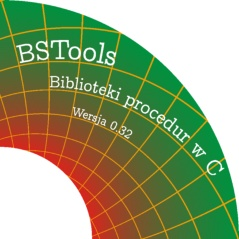
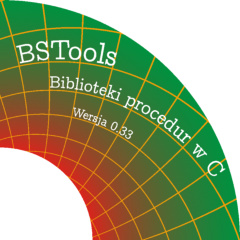
version 0.33
git-svn-id: https://femdk.l5.pk.edu.pl/bstools/BSTools/trunk@41 4ce36bd9-3a78-4973-a166-986cbda2e52d

diff --git a/src/xgedit/xglet2knotwind.c b/src/xgedit/xglet2knotwind.c
@@ -3,7 +3,7 @@
 /* This file is a part of the BSTools package                                */
 /* written by Przemyslaw Kiciak                                              */
 /* ///////////////////////////////////////////////////////////////////////// */
-/* (C) Copyright by Przemyslaw Kiciak, 2007, 2010                            */
+/* (C) Copyright by Przemyslaw Kiciak, 2007, 2013                            */
 /* this package is distributed under the terms of the                        */
 /* Lesser GNU Public License, see the file COPYING.LIB                       */
 /* ///////////////////////////////////////////////////////////////////////// */
@@ -31,7 +31,7 @@
 #include "xgeprivate.h"
 
 
-void xge_T2KnotWindDrawCursorPos ( xge_T2KnotWind *T2win, short x, short y )
+void xgle_T2KnotWindDrawCursorPos ( xge_T2KnotWind *T2win, short x, short y )
 {
   xge_widget *er;
   char       s[10];
@@ -55,5 +55,5 @@ void xge_T2KnotWindDrawCursorPos ( xge_T2KnotWind *T2win, short x, short y )
     y = (short)(max ( y, er->y+10 ));
     xgleDrawString ( s, er->x, y );
   }
-} /*xge_T2KnotWindDrawCursorPos*/
+} /*xgle_T2KnotWindDrawCursorPos*/
 

diff --git a/src/xgedit/xglet2knotwinf.c b/src/xgedit/xglet2knotwinf.c
@@ -3,7 +3,7 @@
 /* This file is a part of the BSTools package                                */
 /* written by Przemyslaw Kiciak                                              */
 /* ///////////////////////////////////////////////////////////////////////// */
-/* (C) Copyright by Przemyslaw Kiciak, 2007, 2010                            */
+/* (C) Copyright by Przemyslaw Kiciak, 2007, 2013                            */
 /* this package is distributed under the terms of the                        */
 /* Lesser GNU Public License, see the file COPYING.LIB                       */
 /* ///////////////////////////////////////////////////////////////////////// */
@@ -31,7 +31,7 @@
 #include "xgeprivate.h"
 
 
-void xge_T2KnotWinfDrawCursorPos ( xge_T2KnotWinf *T2win, short x, short y )
+void xgle_T2KnotWinfDrawCursorPos ( xge_T2KnotWinf *T2win, short x, short y )
 {
   xge_widget *er;
   char       s[10];
@@ -55,5 +55,5 @@ void xge_T2KnotWinfDrawCursorPos ( xge_T2KnotWinf *T2win, short x, short y )
     y = (short)(max ( y, er->y+10 ));
     xgleDrawString ( s, er->x, y );
   }
-} /*xge_T2KnotWinfDrawCursorPos*/
+} /*xgle_T2KnotWinfDrawCursorPos*/
 

diff --git a/include/bookg1holed.h b/include/bookg1holed.h
@@ -3,7 +3,7 @@
 /* This file is a part of the BSTools package                                */
 /* written by Przemyslaw Kiciak                                              */
 /* ///////////////////////////////////////////////////////////////////////// */
-/* (C) Copyright by Przemyslaw Kiciak, 2005                                  */
+/* (C) Copyright by Przemyslaw Kiciak, 2005, 2013                            */
 /* this package is distributed under the terms of the                        */
 /* Lesser GNU Public License, see the file COPYING.LIB                       */
 /* ///////////////////////////////////////////////////////////////////////// */
@@ -12,12 +12,15 @@
 /* Bezier patches filling a polygonal hole in a surface made of      */
 /* bicubic Bezier patches                                            */
 
+#ifndef G1HOLED_H
+#define G1HOLED_H
+
 #ifndef CONST_  /* a dirty trick to suppress many compiler warning messages */
 #define CONST_ const
 #endif
 
-#ifndef G1HOLED_H
-#define G1HOLED_H
+#include "pkvaria.h"
+#include "pkgeom.h"
 
 #ifdef __cplusplus   
 extern "C" {

diff --git a/include/bookg1holef.h b/include/bookg1holef.h
@@ -3,7 +3,7 @@
 /* This file is a part of the BSTools package                                */
 /* written by Przemyslaw Kiciak                                              */
 /* ///////////////////////////////////////////////////////////////////////// */
-/* (C) Copyright by Przemyslaw Kiciak, 2005                                  */
+/* (C) Copyright by Przemyslaw Kiciak, 2005, 2013                            */
 /* this package is distributed under the terms of the                        */
 /* Lesser GNU Public License, see the file COPYING.LIB                       */
 /* ///////////////////////////////////////////////////////////////////////// */
@@ -12,12 +12,15 @@
 /* Bezier patches filling a polygonal hole in a surface made of      */
 /* bicubic Bezier patches                                            */
 
+#ifndef G1HOLEF_H
+#define G1HOLEF_H
+
 #ifndef CONST_  /* a dirty trick to suppress many compiler warning messages */
 #define CONST_ const
 #endif
 
-#ifndef G1HOLEF_H
-#define G1HOLEF_H
+#include "pkvaria.h"
+#include "pkgeom.h"
 
 #ifdef __cplusplus   
 extern "C" {

diff --git a/src/g2blending/g2mblmlsopt07d.c b/src/g2blending/g2mblmlsopt07d.c
@@ -3,7 +3,7 @@
 /* This file is a part of the BSTools package                                */
 /* written by Przemyslaw Kiciak                                              */
 /* ///////////////////////////////////////////////////////////////////////// */
-/* (C) Copyright by Przemyslaw Kiciak, 2011, 2013                            */
+/* (C) Copyright by Przemyslaw Kiciak, 2011, 2012                            */
 /* this package is distributed under the terms of the                        */
 /* Lesser GNU Public License, see the file COPYING.LIB                       */
 /* ///////////////////////////////////////////////////////////////////////// */
@@ -29,6 +29,7 @@
 #include "g2blprivated.h"
 #include "g2mblprivated.h"
 #include "g2mblmlprivated.h"
+#include "msgpool.h"
 
 /* ///////////////////////////////////////////////////////////////////////// */
 #ifdef _DEBUG

diff --git a/src/multibs/mbs61d.c b/src/multibs/mbs61d.c
@@ -3,7 +3,7 @@
 /* This file is a part of the BSTools package                                */
 /* written by Przemyslaw Kiciak                                              */
 /* ///////////////////////////////////////////////////////////////////////// */
-/* (C) Copyright by Przemyslaw Kiciak, 2010, 2013                            */
+/* (C) Copyright by Przemyslaw Kiciak, 2010                                  */
 /* this package is distributed under the terms of the                        */
 /* Lesser GNU Public License, see the file COPYING.LIB                       */
 /* ///////////////////////////////////////////////////////////////////////// */
@@ -17,6 +17,8 @@
 #include "pknum.h"
 #include "pkgeom.h"
 #include "multibs.h"
+
+#include "msgpool.h"
 
 double mbs_GrevilleAbscissad ( int degree, double *knots, int i )
 {

diff --git a/src/multibs/mbs61f.c b/src/multibs/mbs61f.c
@@ -3,7 +3,7 @@
 /* This file is a part of the BSTools package                                */
 /* written by Przemyslaw Kiciak                                              */
 /* ///////////////////////////////////////////////////////////////////////// */
-/* (C) Copyright by Przemyslaw Kiciak, 2010, 2013                            */
+/* (C) Copyright by Przemyslaw Kiciak, 2010                                  */
 /* this package is distributed under the terms of the                        */
 /* Lesser GNU Public License, see the file COPYING.LIB                       */
 /* ///////////////////////////////////////////////////////////////////////// */
@@ -17,6 +17,8 @@
 #include "pknum.h"
 #include "pkgeom.h"
 #include "multibs.h"
+
+#include "msgpool.h"
 
 float mbs_GrevilleAbscissaf ( int degree, float *knots, int i )
 {

diff --git a/src/g2blending/g2mblmlopt19d.c b/src/g2blending/g2mblmlopt19d.c
@@ -3,7 +3,7 @@
 /* This file is a part of the BSTools package                                */
 /* written by Przemyslaw Kiciak                                              */
 /* ///////////////////////////////////////////////////////////////////////// */
-/* (C) Copyright by Przemyslaw Kiciak, 2012, 2013                            */
+/* (C) Copyright by Przemyslaw Kiciak, 2012                                  */
 /* this package is distributed under the terms of the                        */
 /* Lesser GNU Public License, see the file COPYING.LIB                       */
 /* ///////////////////////////////////////////////////////////////////////// */
@@ -29,6 +29,7 @@
 #include "g2blprivated.h"
 #include "g2mblprivated.h"
 #include "g2mblmlprivated.h"
+#include "msgpool.h"
 
 #define _DEBUG
 

diff --git a/include/bsfile.h b/include/bsfile.h
@@ -20,21 +20,13 @@
 #ifndef BSFILE_H
 #define BSFILE_H
 
-#ifndef PKVARIA_H
+#include <stdio.h>
+
 #include "pkvaria.h"
-#endif
-#ifndef PKNUM_H
 #include "pknum.h"
-#endif
-#ifndef PKGEOM_H
 #include "pkgeom.h"
-#endif
-#ifndef MULTIBS_H
 #include "multibs.h"
-#endif
-#ifndef BSMESH_H
 #include "bsmesh.h"
-#endif
 
 #ifdef __cplusplus
 extern "C" {

diff --git a/include/g2mblendingd.h b/include/g2mblendingd.h
@@ -191,7 +191,7 @@ boolean g2mbl_MLCPSSuggestNLevels ( int nv, BSMvertex *mv, int *mvhei,
 void g2mbl_MLGetTimes ( void *data,
                         float *time_prep, float *time_h, float *time_cg );
 #endif
-#ifdef __CPLUSPLUS
+#ifdef __cplusplus
 }
 #endif
 
